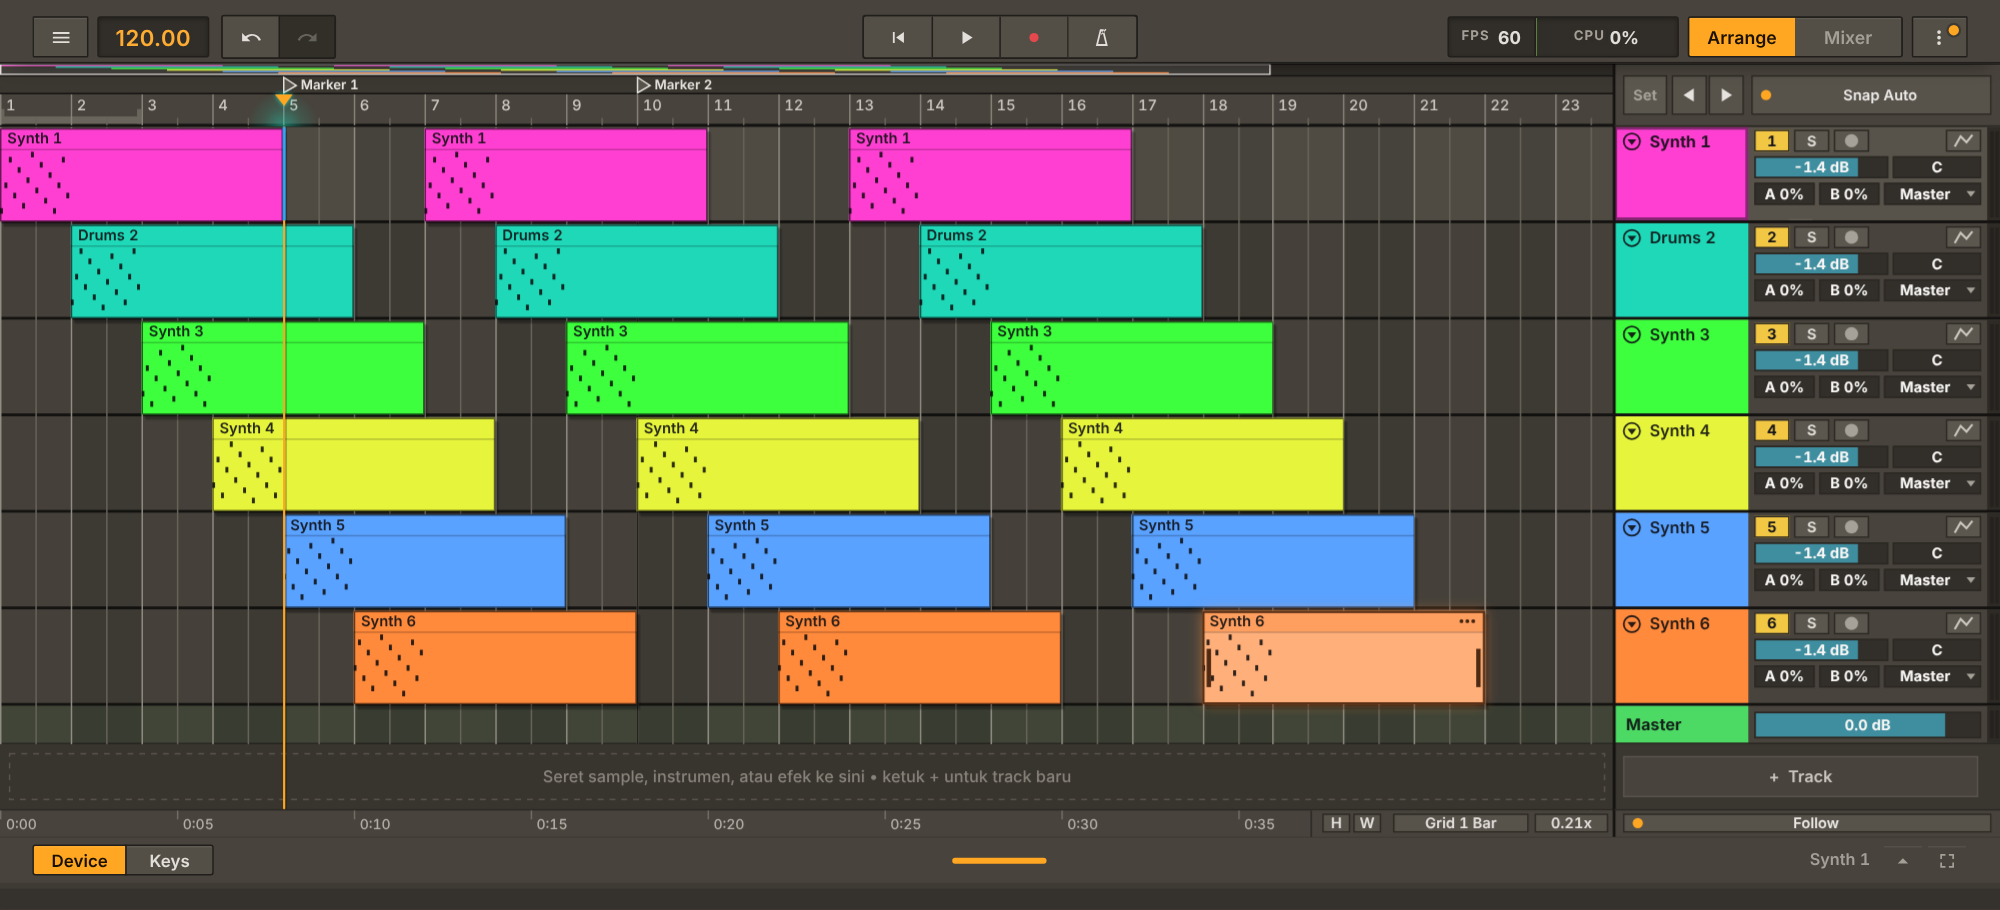
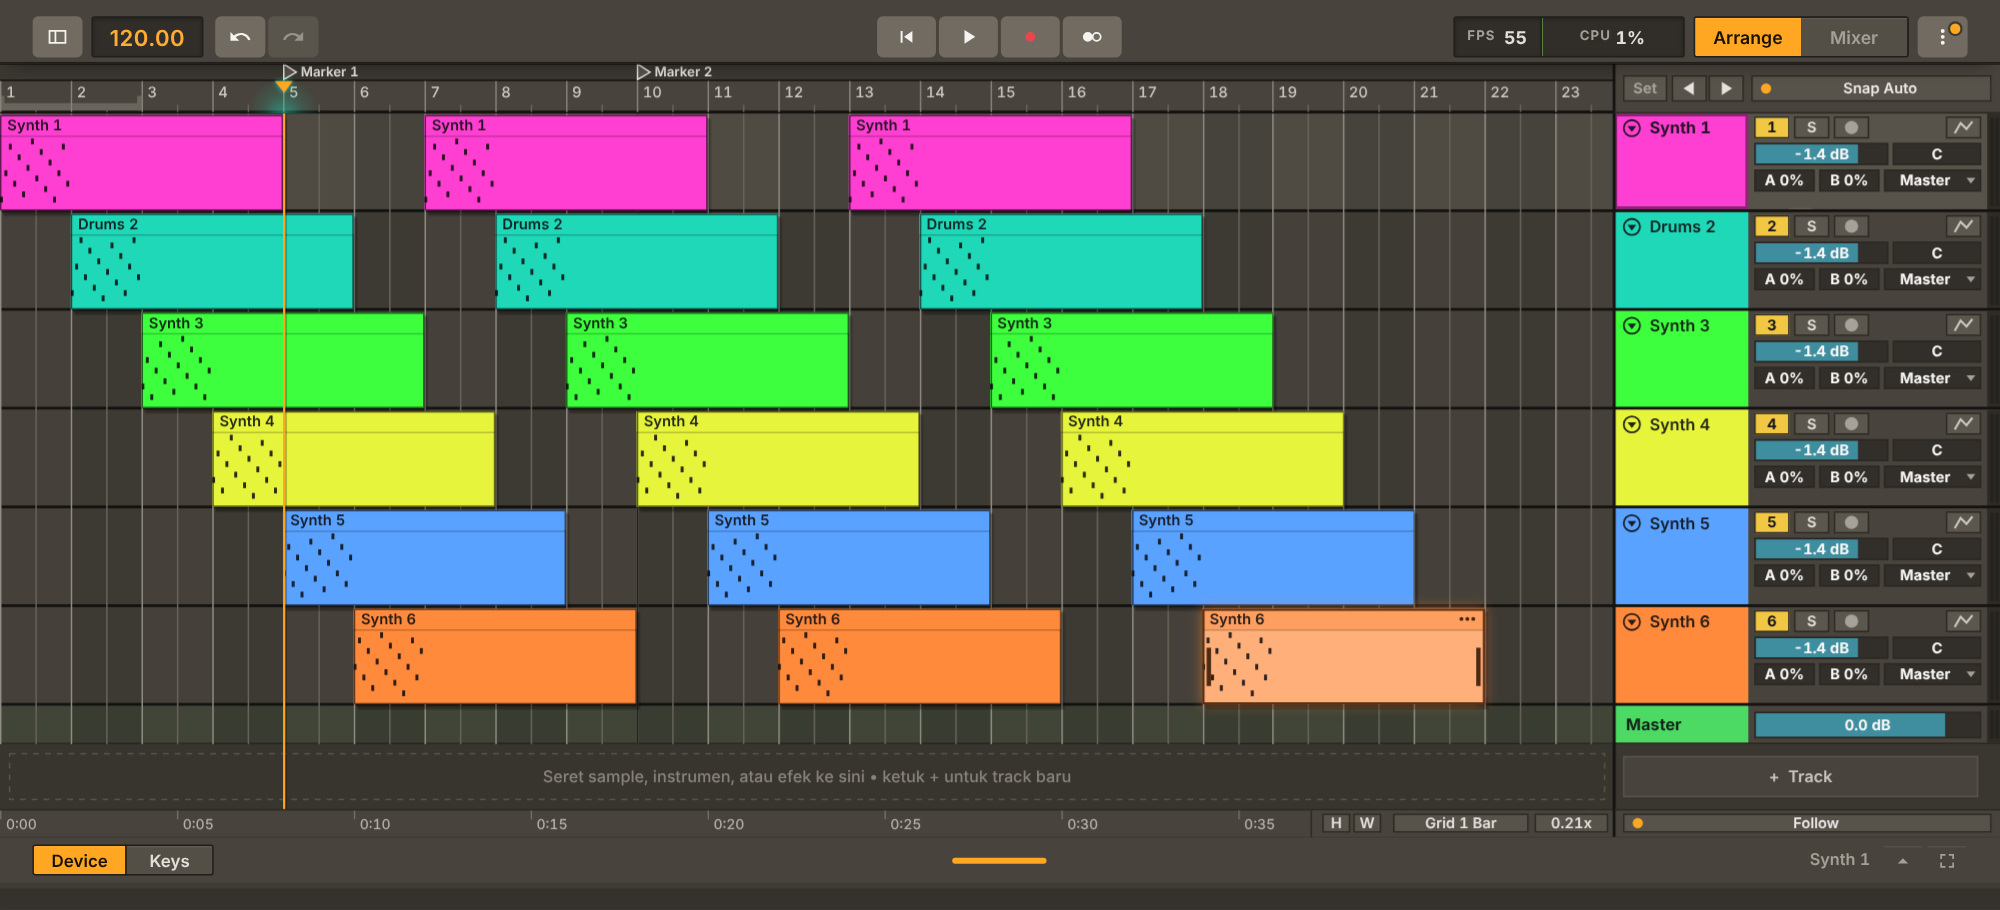
Arrangement: Overview strip removed; control bar buttons after Live 12
- the Overview strip above the locators is gone (owner's request)
- control bar: separate flat buttons without outlines, one height, small radius; Live's
  two-dot metronome icon and panel icon for the browser

Claude-Session: https://claude.ai/code/session_016R99TjSh2G5U2VqVgMNHhT

Changed region(s): [[0.0, 0.0, 1.0, 0.7692], [0.713, 0.0, 0.992, 0.0615]]

diff --git a/js/timeline.js b/js/timeline.js
@@ -24,7 +24,7 @@ const { state, PPQ, SWATCHES } = P;
 // headers on the RIGHT: a title bar in the track colour, the mixer buttons under it, volume / pan sliders when the row is tall enough
 // and a level meter along the right edge of every header.
 let HEAD = 140;                                                 // header width: prefs.headW (drag the header's left edge), else chosen from the canvas width
-const OV = 9, RULER = 43, MROW = 21;   // OV: Live's Overview strip on top; MROW = bottom of the locator strip under it
+const OV = 0, RULER = 34, MROW = 12;   // OV: height of a strip above the locator strip (none: the owner removed the Overview); MROW = bottom of the locator strip
 const BOT = 19, HANDLE = 18, TH = 20, METW = 9;   // top ruler (locators + beats) / bottom time ruler / header title bar / meter strip
 const FOLD_H = 24, MIN_ROW = 52, ADD_H = 44, XROW_H = 26;                // folded row (title bar only) / smallest open row (title + buttons) / "+" row / Master + FX rows (thin, as Live's return / main rows)
 export const view = { x0: 0, ppt: 0.06, y0: 0, rowH: 60 };   // 60: the three header rows (buttons, volume + pan, sends + output) fit with their borders
@@ -77,7 +77,7 @@ const LANE_B = () => H - BOT;                                  // bottom edge of
 const cornerRects = () => { const y = 8, h = RULER - 16, x = CW + 6, bw = 24, sw = 30; return { set: { x, y, w: sw, h }, prev: { x: x + sw + 3, y, w: bw, h }, next: { x: x + sw + 3 + bw + 1, y, w: bw, h }, snap: { x: x + sw + 2 * bw + 9, y, w: Math.max(40, HEAD - 12 - (sw + 2 * bw + 9)), h } }; };
 const snapRect = () => cornerRects().snap;
 const songEnd = () => state.tracks.reduce((m, t) => t.clips.reduce((a, c) => Math.max(a, c.start + c.len), m), 0);
-const ovSpan = () => Math.max(songEnd() + 8 * BAR, view.x0 + CW / view.ppt, 16 * BAR);   // ticks shown by the Overview
+
 const followRect = () => ({ x: CW + 6, y: H - BOT + 3, w: HEAD - 12, h: BOT - 6 });
 const badges = () => (CW < 170 ? [] : [['gridbtn', 'Grid ' + (SNAPS[cfg.snap][0] === 'Auto' ? gridName() : SNAPS[cfg.snap][0]), { x: CW - 150, y: H - BOT + 3, w: 92, h: BOT - 6 }], ['zoombtn', (view.ppt / 0.06).toFixed(2) + 'x', { x: CW - 54, y: H - BOT + 3, w: 50, h: BOT - 6 }], ...(CW < 330 ? [] : [['fith', 'H', { x: CW - 198, y: H - BOT + 3, w: 19, h: BOT - 6 }], ['fitw', 'W', { x: CW - 177, y: H - BOT + 3, w: 19, h: BOT - 6 }]])]);
 let pressed = null;                                           // which corner / badge button is under the finger (drawn highlighted)
@@ -422,13 +422,6 @@ function drawDragAids() {
 let loopA = 0;                                                   // drawn brightness of the loop brace (eases to 1 when the loop is on)
 const PUon = () => state.punch.on && state.punch.end > state.punch.start;
 function drawRuler(g) {
-  // Overview (Live): the whole Arrangement in a thin strip, every clip a line in its colour, the shown part outlined; drag = scroll / zoom
-  { const span = ovSpan(), n = Math.max(1, state.tracks.length), lh = Math.max(1, Math.min(2, (OV - 3) / n));
-    ctx.fillStyle = C('#161617'); ctx.fillRect(0, 0, CW, OV);
-    state.tracks.forEach((t, i) => { const y = 1 + (i / n) * (OV - 3); for (const c of t.clips) { ctx.fillStyle = c.color || t.color || '#888'; ctx.fillRect(c.start / span * CW, y, Math.max(1, c.len / span * CW), lh); } });
-    const a = view.x0 / span * CW, b = Math.min(CW, (view.x0 + CW / view.ppt) / span * CW);
-    ctx.fillStyle = 'rgba(255,255,255,.10)'; ctx.fillRect(a, 0, b - a, OV - 1); ctx.strokeStyle = T('--text'); ctx.lineWidth = 1; ctx.strokeRect(Math.round(a) + 0.5, 0.5, Math.max(3, Math.round(b - a) - 1), OV - 2);
-    ctx.fillStyle = C('#08080a'); ctx.fillRect(0, OV - 1, CW, 1); }
   ctx.fillStyle = C('#202022'); ctx.fillRect(0, OV, CW, MROW - OV);                         // locator strip
   ctx.fillStyle = C('#2c2c2f'); ctx.fillRect(0, MROW, CW, RULER - MROW);                   // beat time ruler
   ctx.fillStyle = C('#08080a'); ctx.fillRect(0, MROW - 1, CW, 1); ctx.fillRect(0, RULER - 2, CW, 2);
@@ -809,7 +802,6 @@ function edgeScroll(x) {
 function hit(x, y) {
   if (y < RULER) {
     if (x >= CW) { const q = cornerRects(); return inRect(q.set, x, y, 2) ? { type: 'locset' } : inRect(q.prev, x, y, 1) ? { type: 'locprev' } : inRect(q.next, x, y, 1) ? { type: 'locnext' } : { type: 'corner' }; }
-    if (y < OV + 1) return { type: 'ov', tick: x / CW * ovSpan() };
     if (y < MROW + 2) { let best = null, bd = 18; for (const m of state.markers) { const d = Math.abs(x - tx(m.t)); if (d < bd) { bd = d; best = m; } } return best ? { type: 'marker', m: best } : { type: 'mrow', tick: xt(x) }; }
     if (PUon() && y > RULER - 11) {
       const dl = Math.abs(x - tx(state.punch.start)), dr = Math.abs(x - tx(state.punch.end));
@@ -1278,7 +1270,6 @@ function setup() {
         case 'locset': { const m = P.addMarker(Math.round(state.playing ? P.currentTick() : snapT(P.currentTick()))); toast('Locator \u201c' + m.name + '\u201d ditambahkan.', 1400); return invalidate(); }
         case 'locprev': P.jumpMarker(-1); return invalidate();
         case 'locnext': P.jumpMarker(1); return invalidate();
-        case 'ov': glideTo(Math.max(0, t.tick - CW / (2 * view.ppt)), view.ppt); return;                 // Overview: tap = show that part
         case 'fitw': { const e = songEnd(); if (e) fitTo(0, e); return; }                              // Live's Optimize Width (W)
         case 'fith': { const avail = LANE_B() - RULER - ADD_H - nX() * XROW_H, used = contentH() - ADD_H - nX() * XROW_H; if (used > 0) { for (const tr of state.tracks) animRow(tr); view.rowH = clamp(view.rowH * avail / used, 30, ROW_MAX); view.y0 = 0; clampView(); invalidate(); } return; }   // Optimize Height (H)
         case 'cornerMenu': return menu([...SNAPS.map((s, k) => ({ label: s[0], check: cfg.snap === k, fn: () => { cfg.snap = k; invalidate(); } })), { sep: true }, { label: 'Ikuti playhead', check: cfg.follow, fn: () => { cfg.follow = !cfg.follow; } }, { label: 'Pilih semua klip', fn: () => selAll() }, { label: 'Batal pilihan', dim: !msel.size, fn: () => clearSel() }, { sep: true }, { label: 'Lipat semua track', fn: () => foldAll(true) }, { label: 'Buka semua track', fn: () => foldAll(false) }], canvasOrigin().left + Math.max(0, CW - 20), canvasOrigin().top + RULER);
@@ -1319,7 +1310,7 @@ function setup() {
       }
     },
     dtap(x, y, t) {
-      if (t.type === 'ov') { const e = songEnd(); if (e) fitTo(0, e); return; }                           // Live: double-click the Overview = the whole Arrangement
+
       if (t.type === 'headw') return setHeadW(0);                                                // double-tap the edge: back to the automatic width
       if (t.type === 'rowh') { const tr = state.tracks[t.i]; if (tr && tr.hx) { animRow(tr); delete tr.hx; invalidate(); } return; }   // double-tap the grip: back to the normal height
       clearTimeout(menuWait); menuWait = 0;
@@ -1359,7 +1350,6 @@ function setup() {
       if (t.type === 'loop' || t.type === 'loopL' || t.type === 'loopR') { drag = { k: t.type, s0: state.loop.start, e0: state.loop.end, t0: t.tick }; return true; }
       if (t.type === 'head' && (t.btn === 3 || t.btn === 4)) { const rc = hdr(t.i)[t.btn === 3 ? 'vol' : 'pan']; if (rc) { const tr = state.tracks[t.i]; drag = { k: t.btn === 3 ? 'hvol' : 'hpan', i: t.i, rc, x0, y0, u0: t.btn === 3 ? Math.sqrt(clamp(tr.vol / VMAX, 0, 1)) : (clamp(tr.pan, -1, 1) + 1) / 2, fine: false }; return true; } }
       if (t.type === 'head' && (t.btn === 8 || t.btn === 9)) { const rc = hdr(t.i)[t.btn === 8 ? 'sa' : 'sb']; if (rc) { const tr = state.tracks[t.i]; drag = { k: 'hsend', s: t.btn - 8, i: t.i, rc, x0, y0, u0: (tr.send && tr.send[t.btn - 8]) || 0 }; return true; } }
-      if (t.type === 'ov') { stopMotion(); drag = { k: 'ov', p0: view.ppt }; return true; }               // Overview: sideways = scroll, up / down = zoom
       if (t.type === 'ruler') { drag = { k: 'rpend', a: snapT(t.tick), tick0: t.tick, p0: view.ppt }; return true; }   // direction decides: Live zoom (vertical) or time selection (horizontal)
       if (t.type === 'clip' && msel.has(t.c.id)) {                // group move / group resize of every picked clip
         checkpoint(); P.selectClip(t.i, t.c.id);
@@ -1399,7 +1389,6 @@ function setup() {
       if (drag.k === 'marker') { P.editMarker(drag.id, { t: Math.max(0, snapT(tick)) }); invalidate(); return; }
       if (drag.k === 'punchL') { P.setPunch({ start: Math.min(snapT(tick), state.punch.end - BEAT) }); invalidate(); return; }
       if (drag.k === 'punchR') { P.setPunch({ end: Math.max(snapT(tick), state.punch.start + BEAT) }); invalidate(); return; }
-      if (drag.k === 'ov') { const span = ovSpan(); view.ppt = clamp(drag.p0 * Math.exp(dy * 0.011), PMIN, PMAX); view.x0 = Math.max(0, clamp(x, 0, CW) / CW * span - CW / (2 * view.ppt)); clampView(); invalidate(); return; }
       if (drag.k === 'rpend') {
         if (Math.abs(dy) > Math.abs(dx) * 1.15) { drag.k = 'rzoom'; stopMotion(); } else { drag.k = 'sel'; sel = { a: drag.a, b: drag.a }; }
       }

diff --git a/sw.js b/sw.js
@@ -1,5 +1,5 @@
 // Offline cache. The cache name contains a hash of every file, so a new deploy replaces the old cache automatically.
-const CACHE = 'mobiledaw-5f688cb2f529';
+const CACHE = 'mobiledaw-861a5b56b245';
 const ASSETS = ["./", "./css/app.css", "./css/ableton.css", "./css/float.css", "./css/live.css", "./icons/icon-192.png", "./icons/icon-512.png", "./icons/icon-maskable-512.png", "./index.html", "./js/about.js", "./js/aboutdata.js", "./js/audioedit.js", "./js/autocurve.js", "./js/automate.js", "./js/autosave.js", "./js/browser.js", "./js/chords.js", "./js/colorpick.js", "./js/defs.js", "./js/demos.js", "./js/devices.js", "./js/devviz.js", "./js/drumpad.js", "./js/edgeguard.js", "./js/editor.js", "./js/engine.js", "./js/engine/analog.js", "./js/engine/audioops.js", "./js/engine/cmdtext.js", "./js/engine/core.js", "./js/engine/dsp.js", "./js/engine/drift.js", "./js/engine/ds.js", "./js/engine/fx.js", "./js/engine/fx2.js", "./js/engine/fx3.js", "./js/engine/fx4.js", "./js/engine/fx5.js", "./js/engine/fx6.js", "./js/engine/fx7.js", "./js/engine/fx8.js", "./js/engine/granulator.js", "./js/engine/impulse.js", "./js/engine/instruments.js", "./js/engine/live.js", "./js/engine/meld.js", "./js/engine/meter.js", "./js/engine/mp3.js", "./js/engine/mp3tables.js", "./js/engine/nativesink.js", "./js/engine/operator.js", "./js/engine/phys.js", "./js/engine/poli.js", "./js/engine/sabio.js", "./js/engine/sf2.js", "./js/engine/simpler.js", "./js/engine/flmsyn.js", "./js/engine/hdgms.js", "./js/engine/hdmfx.js", "./js/engine/hdmini.js", "./js/engine/hdsaw.js", "./js/engine/smf.js", "./js/engine/stretchworker.js", "./js/engine/tmap.js", "./js/engine/wav.js", "./js/engine/waveops.js", "./js/engine/mdaw.wasm", "./js/engine/wasmengine.js", "./js/engine/web.js", "./js/engine/worklet-wasm.js", "./js/engine/worklet.js", "./js/floatwin.js", "./js/fps.js", "./js/fxviz.js", "./js/fxkit.js", "./js/flmpanels.js", "./js/flmfx.js", "./js/flm3osc.js", "./js/flmlayout.js", "./js/flmlive.js", "./js/fxlaw.js", "./js/flmviz.js", "./js/gesture.js", "./js/history.js", "./js/import/als.js", "./js/import/build.js", "./js/import/flm.js", "./js/import/flp.js", "./js/import/fxmap.js", "./js/import/gm.js", "./js/import/index.js", "./js/import/ui.js", "./js/keymap.js", "./js/keys.js", "./js/layout.js", "./js/liveinst.js", "./js/liveui.js", "./js/log.js", "./js/main.js", "./js/midi.js", "./js/midiio.js", "./js/minimeters.js", "./js/mmdraw.js", "./js/native.js", "./js/perf.js", "./js/mixer.js", "./js/prefs.js", "./js/presetlib.js", "./js/presets.js", "./js/project.js", "./js/projects.js", "./js/pwa.js", "./js/quicksave.js", "./js/reorder.js", "./js/safdir.js", "./js/settingsui.js", "./js/storage.js", "./js/tempo.js", "./js/theme.js", "./js/timeline.js", "./js/topbar.js", "./js/touchhit.js", "./js/ui.js", "./js/uiscale.js", "./js/waveform.js", "./js/zip.js", "./manifest.json"];
 self.addEventListener('install', (e) => { e.waitUntil(caches.open(CACHE).then((c) => c.addAll(ASSETS)).then(() => self.skipWaiting())); });
 self.addEventListener('activate', (e) => {

diff --git a/css/ableton.css b/css/ableton.css
@@ -1729,3 +1729,16 @@ html.reduce-motion .lk-tabpg, html.reduce-motion .flm-pg > *, html.reduce-motion
 .thm-adj { display: grid; grid-template-columns: 132px 1fr 84px; align-items: center; gap: var(--sp-4); font: var(--fw-r) var(--fs-3)/1.2 var(--font); color: var(--text); }
 .thm-adj input[type=range] { width: 100%; min-width: 0; }
 .thm-adj .thm-av { text-align: right; font-variant-numeric: tabular-nums; color: var(--dim); }
+/* Control bar after Live 12: separate flat buttons (no joined groups, no outlines), one height, small radius; the state colours fill the button */
+#top .grp { gap: 2px; } #top .grp .b + .b { margin-left: 0; }
+#top .b.ic, #top .grp .b, #top .grp .b:first-child, #top .grp .b:last-child { border: 0; border-radius: 4px; background: var(--lv-ctl); color: var(--lv-ink); box-shadow: none; }
+#top .b.ic { width: 34px; min-width: 34px; height: var(--cb-h); }
+#top .tport .b { width: 40px; min-width: 40px; height: var(--cb-h); }
+#top .b.ic svg { width: 16px; height: 16px; }
+#top .b.ic:disabled, #top .b.ic[disabled] { opacity: .45; }
+#top .tport #btn-play.on { background: var(--play); color: #0b1a0e; }
+#top .tport #btn-rec { color: var(--rec); } #top .tport #btn-rec.on { background: var(--rec); color: #fff; }
+#top .tport #btn-metro.on { background: var(--lv-or, var(--accent)); color: #1a1100; }
+#top #btn-browser.on { background: var(--lv-or, var(--accent)); color: #1a1100; }
+[data-w="s"] #top .tport .b, [data-w="xs"] #top .tport .b { width: 36px; min-width: 36px; }
+#top .tport, #top .grp.hist { gap: 2px; border: 0; border-radius: 0; overflow: visible; background: transparent; } #top .tport .b + .b, #top .grp.hist .b + .b { border-left: 0; }

diff --git a/js/ui.js b/js/ui.js
@@ -24,7 +24,8 @@ export function h(tag, attrs, ...kids) {
 const P = {
   play: 'M8 5v14l11-7z', pause: 'M7 5h3.5v14H7zm6.5 0H17v14h-3.5z', stop: 'M6 6h12v12H6z', rew: 'M6 6h2v12H6zm3.5 6L18 6v12z',
   loop: 'M7 7h10v3l4-4-4-4v3H5v6h2V7zm10 10H7v-3l-4 4 4 4v-3h12v-6h-2v4z',
-  metro: 'M10 3h4l4.5 18h-13L10 3zm1.3 2.5L8 19h8l-3.3-13.5h-1.4zM12 9l5-5.5-1.2-1L11 8z',
+  metro: 'M7.5 7a5 5 0 1 0 0 10 5 5 0 0 0 0-10zm9 0a5 5 0 1 0 0 10 5 5 0 0 0 0-10zm0 1.8a3.2 3.2 0 1 1 0 6.4 3.2 3.2 0 0 1 0-6.4z',   // Live's metronome: a full and an empty dot
+  panel: 'M3 5h18v14H3zm1.8 1.8v10.4H9V6.8zm6 0v10.4h8.4V6.8z',   // Live's browser toggle: a window with its side panel
   undo: 'M12.5 8c-2.65 0-5.05 1-6.9 2.6L2 7v9h9l-3.6-3.6A8 8 0 0 1 12.5 10c3.5 0 6.5 2.3 7.6 5.5l2.4-.8C21.1 10.7 17.2 8 12.5 8z',
   redo: 'M11.5 8c2.65 0 5.05 1 6.9 2.6L22 7v9h-9l3.6-3.6A8 8 0 0 0 11.5 10c-3.5 0-6.5 2.3-7.6 5.5l-2.4-.8C2.9 10.7 6.8 8 11.5 8z',
   menu: 'M12 8a2 2 0 1 0 0-4 2 2 0 0 0 0 4zm0 6a2 2 0 1 0 0-4 2 2 0 0 0 0 4zm0 6a2 2 0 1 0 0-4 2 2 0 0 0 0 4z',

diff --git a/js/main.js b/js/main.js
@@ -41,7 +41,7 @@ const panes = {};
 
 // ------------------------------------------------------------------ transport + readouts
 function icons() {
-  for (const [id, n] of [['browser', 'list'], ['play', 'play'], ['stop', 'stop'], ['rew', 'rew'], ['rec', 'rec'], ['metro', 'metro'], ['undo', 'undo'], ['redo', 'redo'], ['menu', 'menu']]) setIcon($('#btn-' + id), n);
+  for (const [id, n] of [['browser', 'panel'], ['play', 'play'], ['stop', 'stop'], ['rew', 'rew'], ['rec', 'rec'], ['metro', 'metro'], ['undo', 'undo'], ['redo', 'redo'], ['menu', 'menu']]) setIcon($('#btn-' + id), n);
 }
 function tapTempo() { const b = openTapChip(); return b; }
 function openTapChip() { const b = Tempo.tapPress(); if (b) toast(b.toFixed(1) + ' BPM', 900); return b; }

diff --git a/docs/HANDOFF.md b/docs/HANDOFF.md
@@ -743,8 +743,9 @@ Permintaan pemilik: SEMUA efek dan instrumen diganti dengan set stok Ableton Liv
 - **Tab FX instrumen = satu panel** (`fxPage` di `flmpanels.js`): daftar efek di kiri dengan kotak saklar on/off (`lvTabs` `check`), satu bagian `DS` untuk efek terpilih.
 - **Tab ala Sampler Live**: `tabs(k, names, pages, leds)`; LED tab menyala saat bagiannya dipakai (amount ≠ 0, filter aktif, ada efek on). CSS `.flm-ltabs`.
 - **Title bar**: tombol `⇄` (`swapBtn`) ganti modul / instrumen cepat; instrumen punya menu `⋯`; tombol header satu ukuran; `.menu` dibatasi tinggi layar dan bisa digulir. Card synth FLM lebar 500 px.
-- **Arrangement mengikuti manual Live 12 bab 6** (`js/timeline.js`): strip **Overview** di atas (`OV`; seret = gulir, atas/bawah = zoom, ketuk dua kali = seluruh Arrangement), pojok header **Set / ◀ / ▶ locator** + Snap (`cornerRects`), tombol **H / W** (Optimize Height / Width) di kanan bawah, pita grid selang-seling, **insert marker biru berkedip** saat stop. Tes: `node tools/arr-live-test.mjs` (screenshot di `docs/redesign/arr`).
+- **Arrangement mengikuti manual Live 12 bab 6** (`js/timeline.js`): (strip Overview sempat ada, dihapus atas permintaan pemilik: `OV = 0`), pojok header **Set / ◀ / ▶ locator** + Snap (`cornerRects`), tombol **H / W** (Optimize Height / Width) di kanan bawah, pita grid selang-seling, **insert marker biru berkedip** saat stop. Tes: `node tools/arr-live-test.mjs` (screenshot di `docs/redesign/arr`).
 - **Tema fleksibel** (`js/theme.js`): `setThemeAdjust({ tone, brightness, contrast, intensity, hue })` di atas tema mana pun (`ACT` = tema + penyesuaian; `prefs.themeAdj`), `prefs.gridInt` = Grid Line Intensity. Slider di Pengaturan → Tampilan. Tema baru: Dark Neutral Medium Contrast, Light Neutral Medium / Low Contrast. Warna klip tidak ikut berubah.
+- **Control bar**: tombol terpisah, rata, tanpa garis luar, radius 4 px, satu tinggi; ikon metronom dua titik dan ikon browser panel ala Live (`ui.js` `metro`, `panel`).
 - Belum: instrumen replika Live (Drift, Operator, Analog, Poli, Meld, Wavetable, Simpler, Impulse, Granulator, Electric/Tension/Collision, DS) tidak diubah; penanda slice di display Slicer belum ada.
 
 - **Card modul FLM = device Live** (permintaan pemilik: bahasa desain, perilaku dan interaksi card FX Ableton Live): `fxkit.js flmLive` + komposisi per modul di `js/flmlive.js` (37 efek + Transistor Bass / Slicer), dibangun dari bagian yang sama dengan panel Live 12 (`k.dk` display gelap, `k.NT` angka oranye, `k.TL`, `lk-ch`). Pola: kolom knob kiri (`L`) | display (`D`: grafik `flmviz`, `handles` yang diseret seperti Live - EQ band bernomor, ring Filter freq/reso, Threshold Compressor / Gate / Limiter, crossover Multiband, X/Y Waveshaper & Multi FX, 8 band Graphic / Tuned EQ; `tabs` = tombol mode di bawah grafik; `rows` = baris angka di dalam display, `table` = tabel band ala Multiband Dynamics; `tap` keyboard Pitcher; `piano` Scale) | baris knob di bawah display (`B`, ala Chorus-Ensemble / Phaser-Flanger / Auto Pan) | kolom kanan (`R`) dengan Dry/Wet di bawah (`'-'`). Equalizer meniru EQ Eight: band terpilih (Freq / Gain / Q di kiri, tombol 1-4 + tipe + channel di bawah display). `{ sw }` = Sync ala Live (menu saat Sync, knob saat bebas). Tes interaksi nyata di `tools/flmfx-shots.mjs` (seret ring Filter, ketuk keyboard Pitcher 2). 3x Osc masih memakai `flmLayout` (tab).
